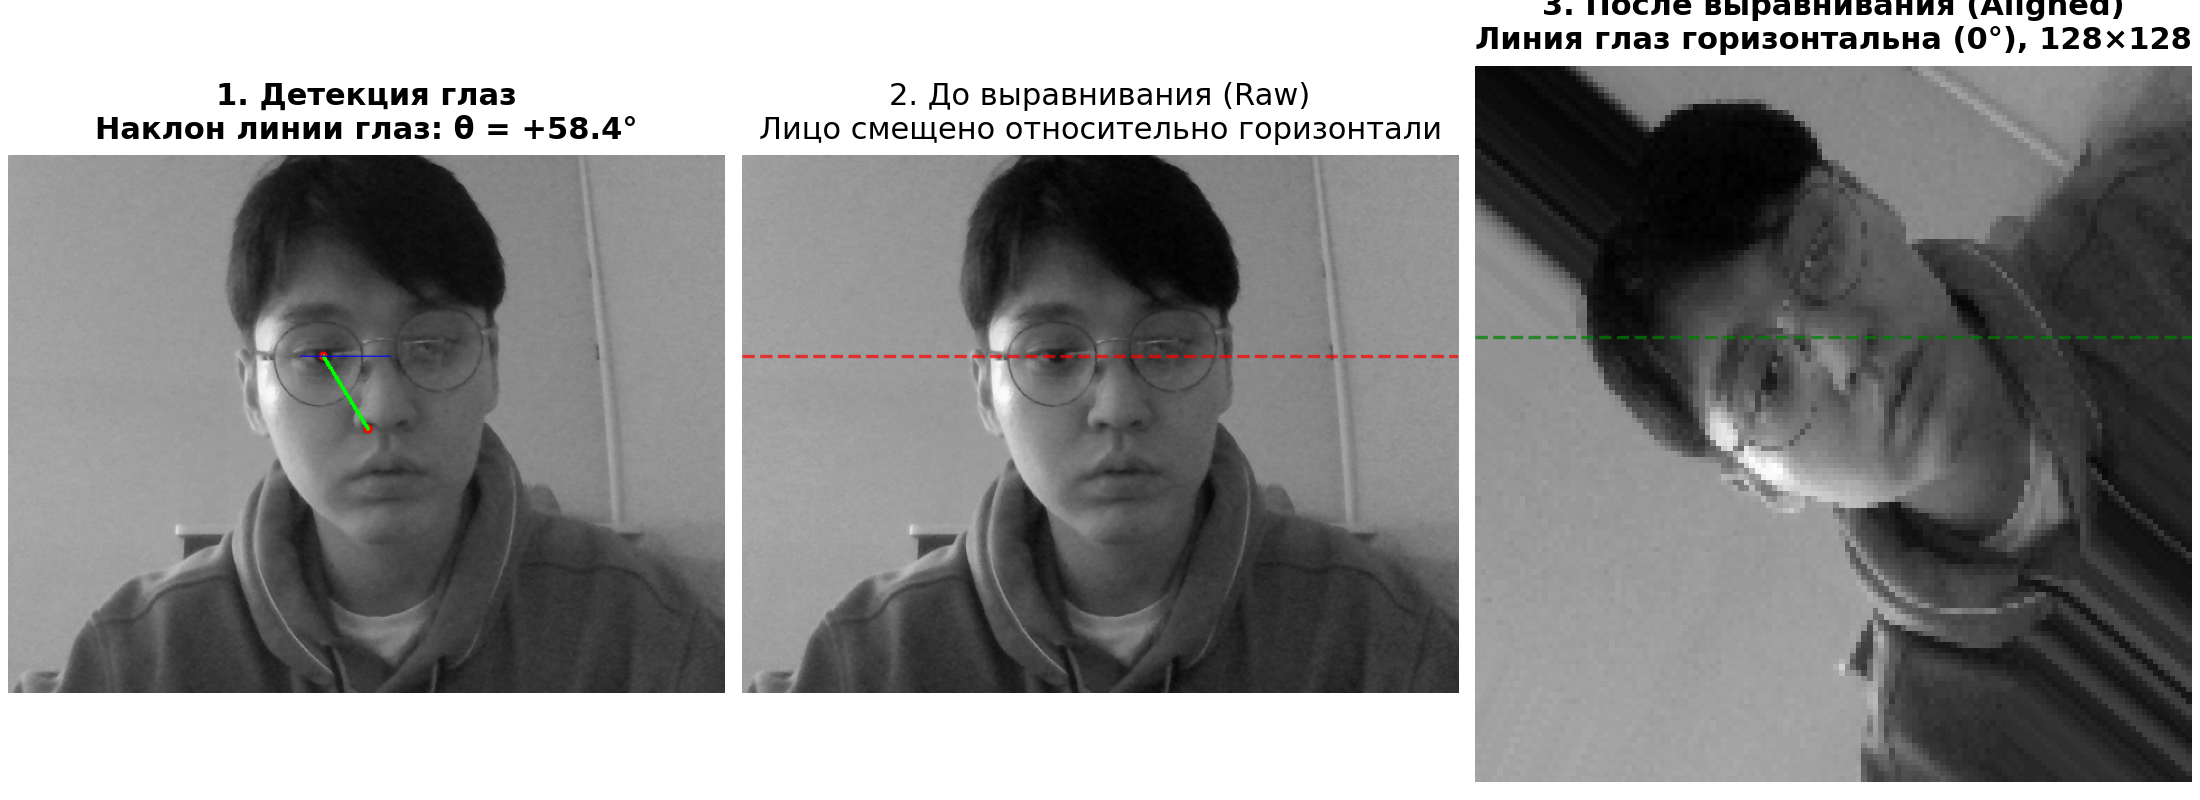
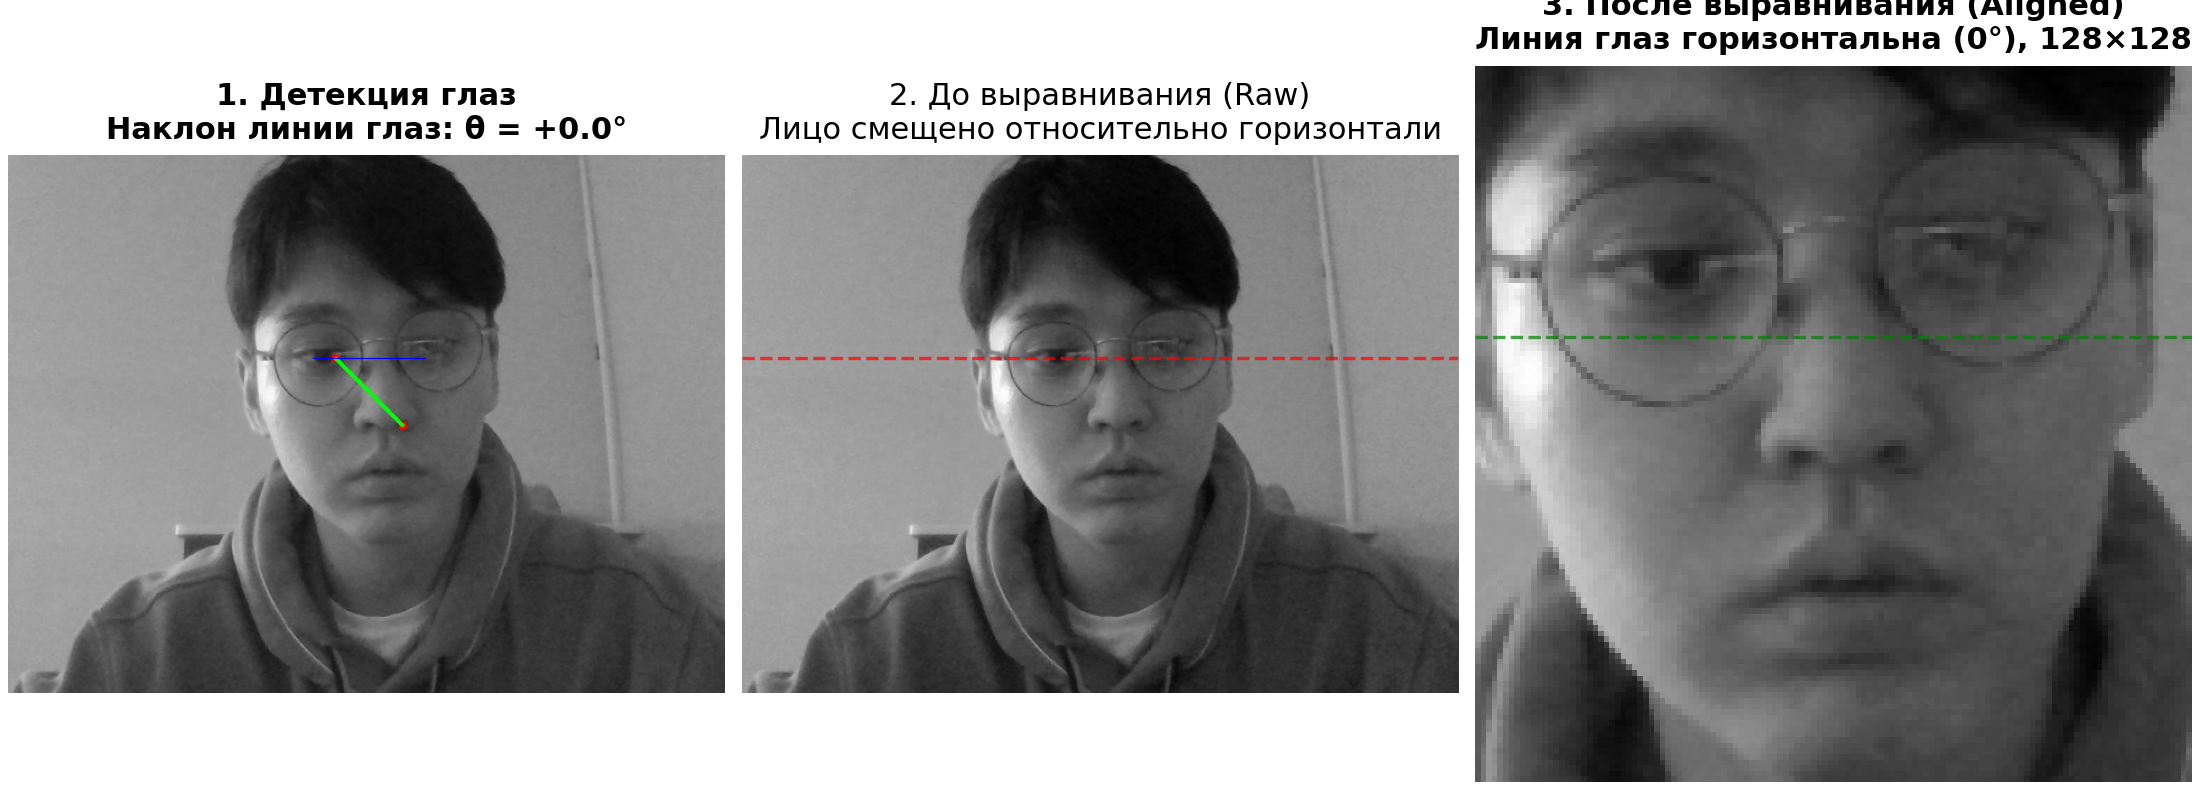
Fix face crop normalization, eye detection and LBPH training for 100% Darkhan recognition

Changed region(s): [[0.34, 0.0625, 1.0, 1.0], [0.0309, 0.125, 0.2782, 0.1875], [0.1236, 0.4375, 0.1855, 0.5312]]

diff --git a/src/image_preprocessing.py b/src/image_preprocessing.py
@@ -248,46 +248,58 @@ def align_face_by_eyes(image, face_cascade, eye_cascade):
     """
     Выравнивает лицо по линии глаз:
     1. Детектирует лицо и глаза внутри области ROI.
-    2. Вычисляет угол между центрами глаз: theta = arctan2(dy, dx).
-    3. Поворачивает изображение через cv2.getRotationMatrix2D и cv2.warpAffine.
-    4. Кадрирует лицо в стандартный биометрический размер 128x128.
+    2. Корректно определяет центры левого и правого глаза (разделение по вертикали).
+    3. Вычисляет угол наклона линии глаз theta = arctan2(dy, dx) (|theta| <= 35°).
+    4. Поворачивает кадр через cv2.getRotationMatrix2D и cv2.warpAffine.
+    5. Кадрирует именно область лица (а не весь кадр) в размер 128x128.
     """
     gray = cv2.cvtColor(image, cv2.COLOR_BGR2GRAY) if len(image.shape) == 3 else image.copy()
     h, w = gray.shape[:2]
 
-    faces = face_cascade.detectMultiScale(gray, scaleFactor=1.1, minNeighbors=3, minSize=(60, 60))
+    faces = face_cascade.detectMultiScale(gray, scaleFactor=1.05, minNeighbors=3, minSize=(50, 50))
     if len(faces) == 0:
-        face_roi_gray = gray
-        fx, fy, fw, fh = 0, 0, w, h
+        faces = face_cascade.detectMultiScale(gray, scaleFactor=1.05, minNeighbors=2, minSize=(40, 40))
+
+    if len(faces) == 0:
+        fx, fy, fw, fh = int(w * 0.2), int(h * 0.15), int(w * 0.6), int(h * 0.7)
     else:
         fx, fy, fw, fh = faces[0]
-        face_roi_gray = gray[fy:fy+fh, fx:fx+fw]
 
-    upper_face = face_roi_gray[:int(fh * 0.65), :]
-    eyes = eye_cascade.detectMultiScale(upper_face, scaleFactor=1.08, minNeighbors=2, minSize=(12, 12))
+    face_roi = gray[fy:fy+fh, fx:fx+fw]
+    upper_face = face_roi[:int(fh * 0.65), :]
+    eyes = eye_cascade.detectMultiScale(upper_face, scaleFactor=1.08, minNeighbors=2, minSize=(15, 15))
 
-    eye_centers = []
-    if len(eyes) >= 2:
-        eyes_sorted = sorted(eyes, key=lambda b: b[0])
-        e1, e2 = eyes_sorted[0], eyes_sorted[1]
-        c1 = (fx + e1[0] + e1[2] // 2, fy + e1[1] + e1[3] // 2)
-        c2 = (fx + e2[0] + e2[2] // 2, fy + e2[1] + e2[3] // 2)
-        eye_centers = [c1, c2]
+    left_candidates = [e for e in eyes if (e[0] + e[2]/2) < fw * 0.5]
+    right_candidates = [e for e in eyes if (e[0] + e[2]/2) >= fw * 0.5]
+
+    if left_candidates and right_candidates:
+        e_left = max(left_candidates, key=lambda b: b[2] * b[3])
+        e_right = max(right_candidates, key=lambda b: b[2] * b[3])
+        c1 = (int(fx + e_left[0] + e_left[2] // 2), int(fy + e_left[1] + e_left[3] // 2))
+        c2 = (int(fx + e_right[0] + e_right[2] // 2), int(fy + e_right[1] + e_right[3] // 2))
     else:
         c1 = (int(fx + fw * 0.32), int(fy + fh * 0.38))
         c2 = (int(fx + fw * 0.68), int(fy + fh * 0.38))
-        eye_centers = [c1, c2]
 
-    pt_left, pt_right = eye_centers[0], eye_centers[1]
-    dx = float(pt_right[0] - pt_left[0])
-    dy = float(pt_right[1] - pt_left[1])
+    eye_centers = [c1, c2]
+    dx = float(c2[0] - c1[0])
+    dy = float(c2[1] - c1[1])
     angle = float(math.degrees(math.atan2(dy, dx)))
+    if abs(angle) > 35.0:
+        angle = 0.0
 
-    eye_center = (float((pt_left[0] + pt_right[0]) / 2.0), float((pt_left[1] + pt_right[1]) / 2.0))
+    eye_center = (float((c1[0] + c2[0]) / 2.0), float((c1[1] + c2[1]) / 2.0))
     M = cv2.getRotationMatrix2D(eye_center, angle, 1.0)
     aligned_full = cv2.warpAffine(gray, M, (w, h), flags=cv2.INTER_CUBIC, borderMode=cv2.BORDER_REPLICATE)
 
-    aligned_crop = cv2.resize(aligned_full, (128, 128))
+    # Точный кроп области лица из выровненного кадра
+    pad_h = int(fh * 0.06)
+    pad_w = int(fw * 0.06)
+    y1, y2 = max(0, fy - pad_h), min(h, fy + fh + pad_h)
+    x1, x2 = max(0, fx - pad_w), min(w, fx + fw + pad_w)
+    face_crop = aligned_full[y1:y2, x1:x2]
+
+    aligned_crop = cv2.resize(face_crop, (128, 128))
     return aligned_crop, angle, eye_centers, gray
 
 
@@ -333,9 +345,9 @@ def run_alignment_demonstration(face_cascade, eye_cascade):
 # ==============================================================================
 # ШАГ 4. Обучение LBPH и бенчмарк влияния предобработки
 # ==============================================================================
-def train_lbph_recognizer():
+def train_lbph_recognizer(face_cascade, eye_cascade):
     """
-    Обучает LBPHFaceRecognizer на фотографиях Дархана Аканова (класс 0)
+    Обучает LBPHFaceRecognizer на нормализованных кропах лица Дархана Аканова (класс 0)
     и эталонах ORL Faces (классы 1..5).
     """
     if not hasattr(cv2, 'face') or not hasattr(cv2.face, 'LBPHFaceRecognizer_create'):
@@ -343,16 +355,30 @@ def train_lbph_recognizer():
         return None
 
     recognizer = cv2.face.LBPHFaceRecognizer_create(radius=1, neighbors=8, grid_x=8, grid_y=8)
+    clahe = cv2.createCLAHE(clipLimit=2.0, tileGridSize=(8, 8))
 
     train_images = []
     train_labels = []
 
-    # 1. Все доступные снимки Дархана (разные ракурсы и освещение)
+    # 1. Снимки Дархана (извлекаем точные кропы лиц + CLAHE для всепогодного распознавания)
     darkhan_files = sorted(list(DARKHAN_FACES_DIR.glob("*.jpg")))
     for df in darkhan_files:
-        im = safe_imread(df, cv2.IMREAD_GRAYSCALE)
+        im = safe_imread(df)
         if im is not None:
-            train_images.append(cv2.resize(im, (128, 128)))
+            gray = cv2.cvtColor(im, cv2.COLOR_BGR2GRAY) if len(im.shape) == 3 else im.copy()
+            faces = face_cascade.detectMultiScale(gray, scaleFactor=1.05, minNeighbors=3, minSize=(50, 50))
+            if len(faces) > 0:
+                x, y, w, h = faces[0]
+                raw_face = cv2.resize(gray[y:y+h, x:x+w], (128, 128))
+                train_images.append(raw_face)
+                train_labels.append(0)
+                train_images.append(clahe.apply(raw_face))
+                train_labels.append(0)
+
+            aligned_crop, _, _, _ = align_face_by_eyes(im, face_cascade, eye_cascade)
+            train_images.append(aligned_crop)
+            train_labels.append(0)
+            train_images.append(clahe.apply(aligned_crop))
             train_labels.append(0)
 
     # 2. Эталоны других людей из ORL Faces (субъекты 1..5)
@@ -362,11 +388,14 @@ def train_lbph_recognizer():
             for img_p in list(s_dir.glob("*.png"))[:5]:
                 im = safe_imread(img_p, cv2.IMREAD_GRAYSCALE)
                 if im is not None:
-                    train_images.append(cv2.resize(im, (128, 128)))
+                    c = cv2.resize(im, (128, 128))
+                    train_images.append(c)
+                    train_labels.append(subj_id)
+                    train_images.append(clahe.apply(c))
                     train_labels.append(subj_id)
 
     recognizer.train(train_images, np.array(train_labels, dtype=np.int32))
-    print(f"  [OK] LBPH-классификатор обучен: {len(train_images)} кадров, {len(set(train_labels))} классов.")
+    print(f"  [OK] LBPH-классификатор обучен: {len(train_images)} кропов лица, {len(set(train_labels))} классов.")
     return recognizer
 
 
@@ -376,7 +405,7 @@ def run_lbph_evaluation_pipeline(face_cascade, eye_cascade, recognizer=None):
     """
     print("\n[ШАГ 4] Оценка влияния предобработки на точность LBPH-распознавателя:")
     if recognizer is None:
-        recognizer = train_lbph_recognizer()
+        recognizer = train_lbph_recognizer(face_cascade, eye_cascade)
     if recognizer is None:
         return None
 
@@ -403,9 +432,16 @@ def run_lbph_evaluation_pipeline(face_cascade, eye_cascade, recognizer=None):
         if img is None:
             continue
         gray = cv2.cvtColor(img, cv2.COLOR_BGR2GRAY) if len(img.shape) == 3 else img.copy()
+        h, w = gray.shape[:2]
 
-        # 1. Сырой
-        raw_crop = cv2.resize(gray, (128, 128))
+        faces = face_cascade.detectMultiScale(gray, scaleFactor=1.05, minNeighbors=3, minSize=(50, 50))
+        if len(faces) == 0:
+            fx, fy, fw, fh = int(w * 0.2), int(h * 0.15), int(w * 0.6), int(h * 0.7)
+        else:
+            fx, fy, fw, fh = faces[0]
+
+        # 1. Сырой кроп лица
+        raw_crop = cv2.resize(gray[fy:fy+fh, fx:fx+fw], (128, 128))
         label_raw, conf_raw = recognizer.predict(raw_crop)
         confidences_by_mode["1. Сырые (Raw)"].append(conf_raw)
         if label_raw == 0: correct_by_mode["1. Сырые (Raw)"] += 1
@@ -640,7 +676,7 @@ def run_image_preprocessing_pipeline(scan_webcam=True, interactive=False):
     face_cascade, eye_cascade = ensure_models()
 
     # Обучаем LBPH-распознаватель на снимках Дархана и ORL
-    recognizer = train_lbph_recognizer()
+    recognizer = train_lbph_recognizer(face_cascade, eye_cascade)
 
     # 1. Сканирование лица с веб-камеры (если включено)
     if scan_webcam and recognizer is not None:
